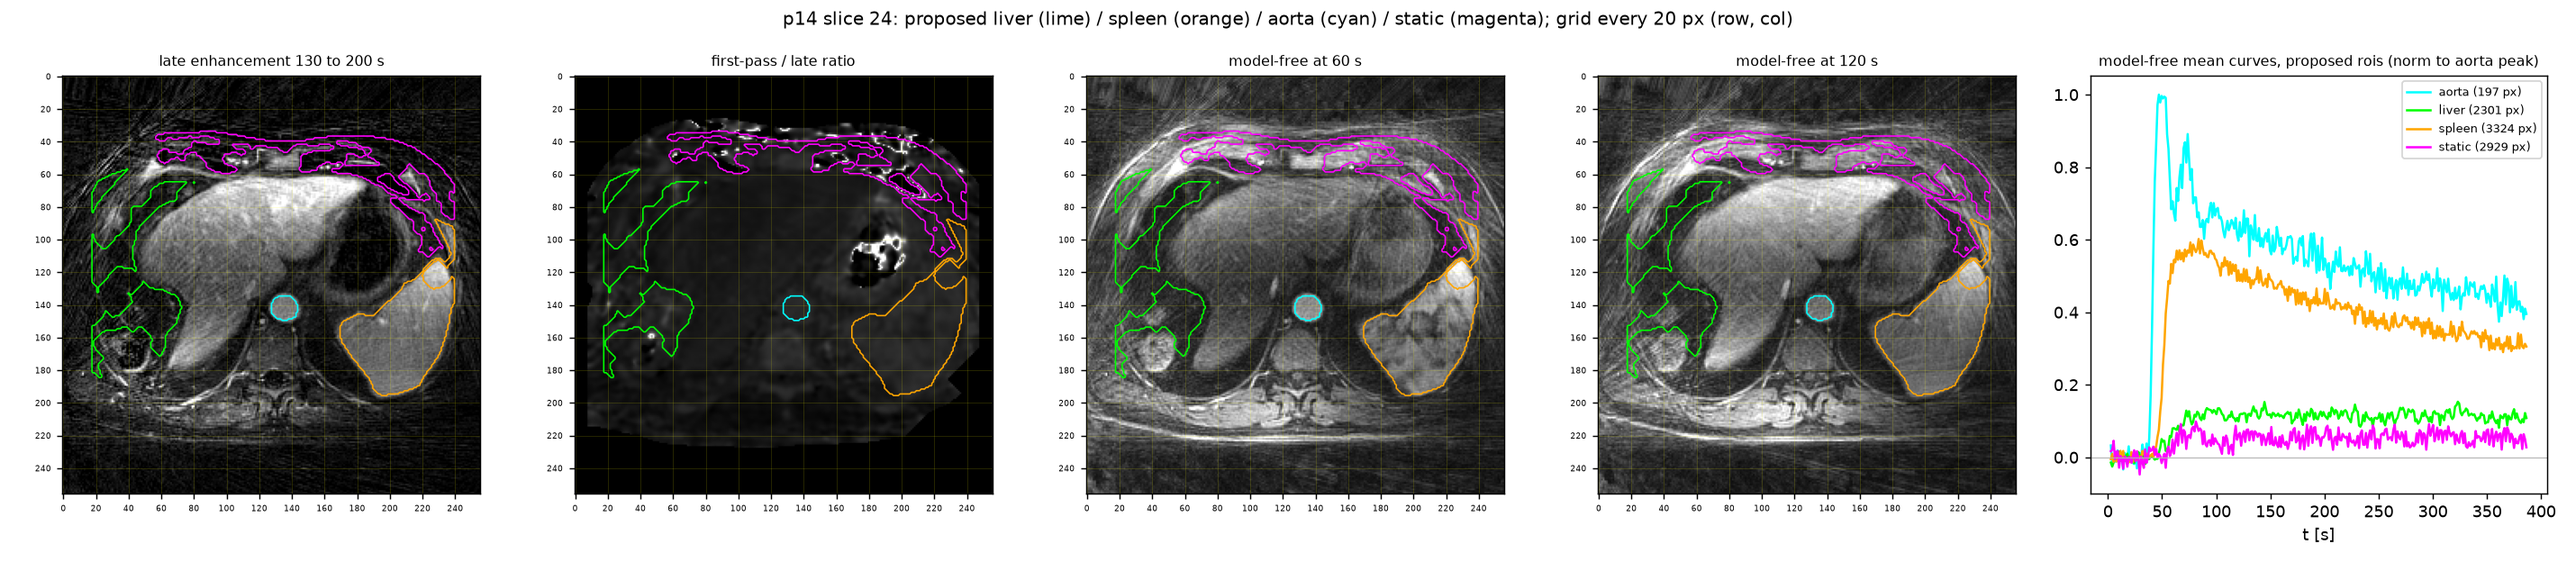
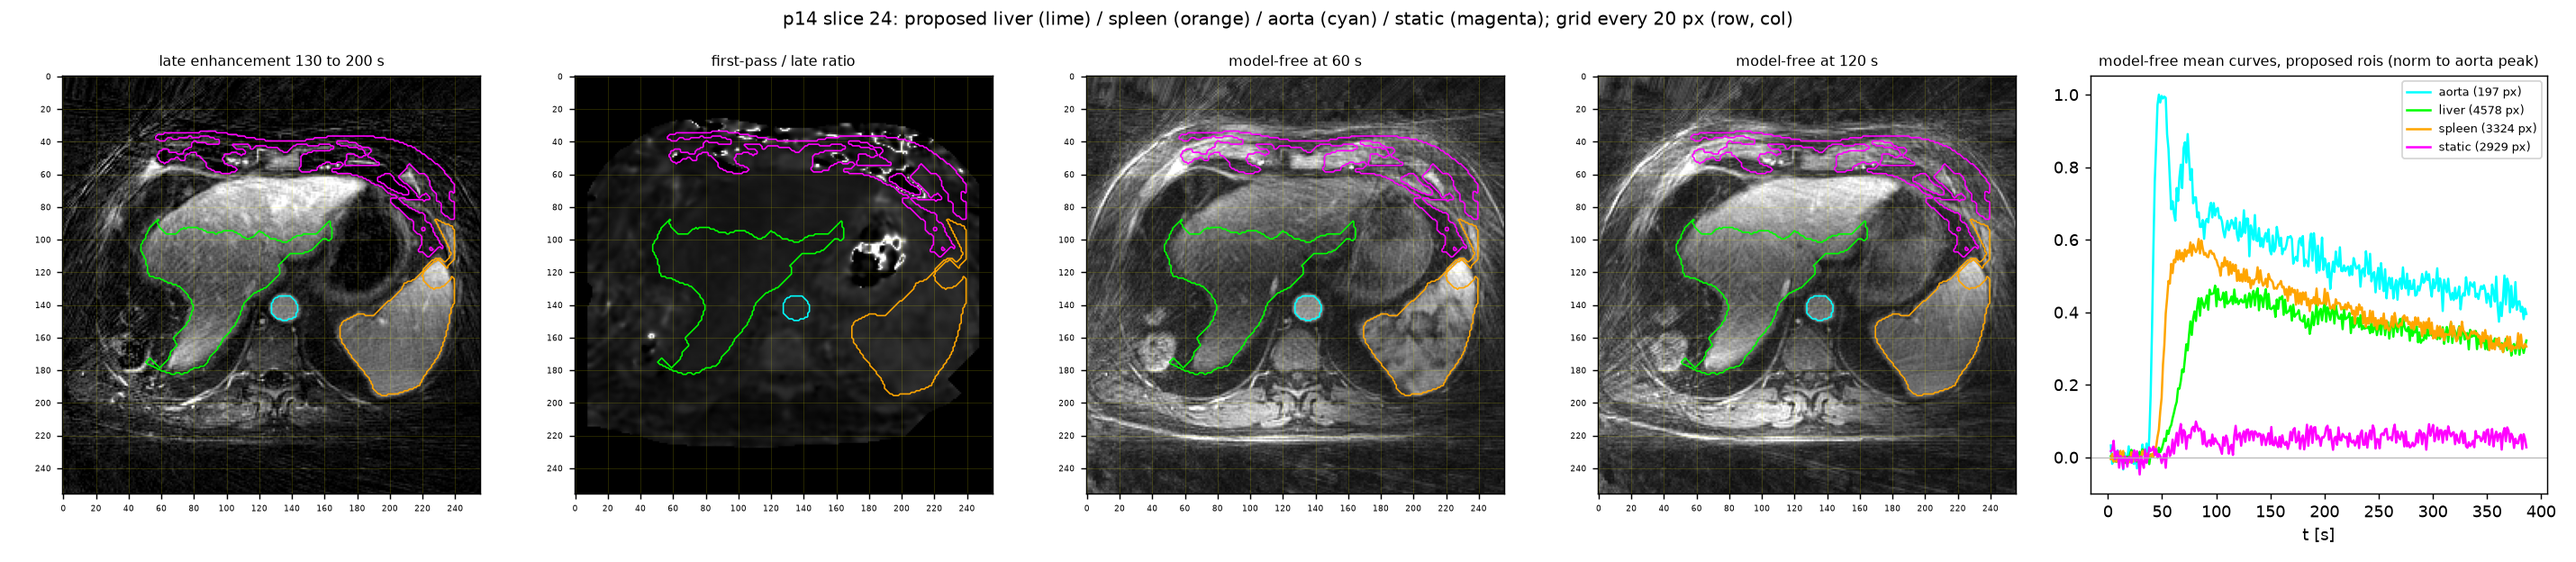
agent 2026-09-25 10:37 worker01.cluster: 7 files

diff --git a/jobs/agent/status.md b/jobs/agent/status.md
@@ -1,18 +1,17 @@
 # helios agent
 
-updated 2026-09-25 10:35:44 on worker01.cluster, job 3373495, cycle 141
+updated 2026-09-25 10:37:48 on worker01.cluster, job 3373495, cycle 142
 
 ## active
 
 | jid | script | state |
 |---|---|---|
-| 3380031 | 085_p14_rois_sl24 | 1 PENDING None |
 
 ## done (last 20)
 
 | name | state |
 |---|---|
-| 085_p14_rois_sl24 | 1 PENDING None |
+| 085_p14_rois_sl24 | 1 COMPLETED 00:00:09 |
 | 084_p14_rois_seeded_v3 | 1 COMPLETED 00:00:16 |
 | 083_p14_rois_seeded_v2 | 1 COMPLETED 00:00:19 |
 | 082_p14_rois_seeded | 1 COMPLETED 00:00:07 |

diff --git a/results/realdata_nik_vs_cs_figures/rois_proposed_p14.md b/results/realdata_nik_vs_cs_figures/rois_proposed_p14.md
@@ -2,6 +2,4 @@
 
 | slice | liver px | spleen px | aorta px | static px | liver ttp s / plateau | spleen ttp s / plateau |
 |---|---|---|---|---|---|---|
-| 21 | 3815 | 3518 | 199 | 2900 | 131 / 0.69 | 80 / 0.58 |
-| 24 | 2301 | 3324 | 197 | 2929 | 323 / 0.75 | 84 / 0.57 |
-| 27 | 3073 | 3483 | 176 | 7780 | 101 / 0.69 | 84 / 0.61 |
+| 24 | 4578 | 3324 | 197 | 2929 | 99 / 0.70 | 84 / 0.57 |
